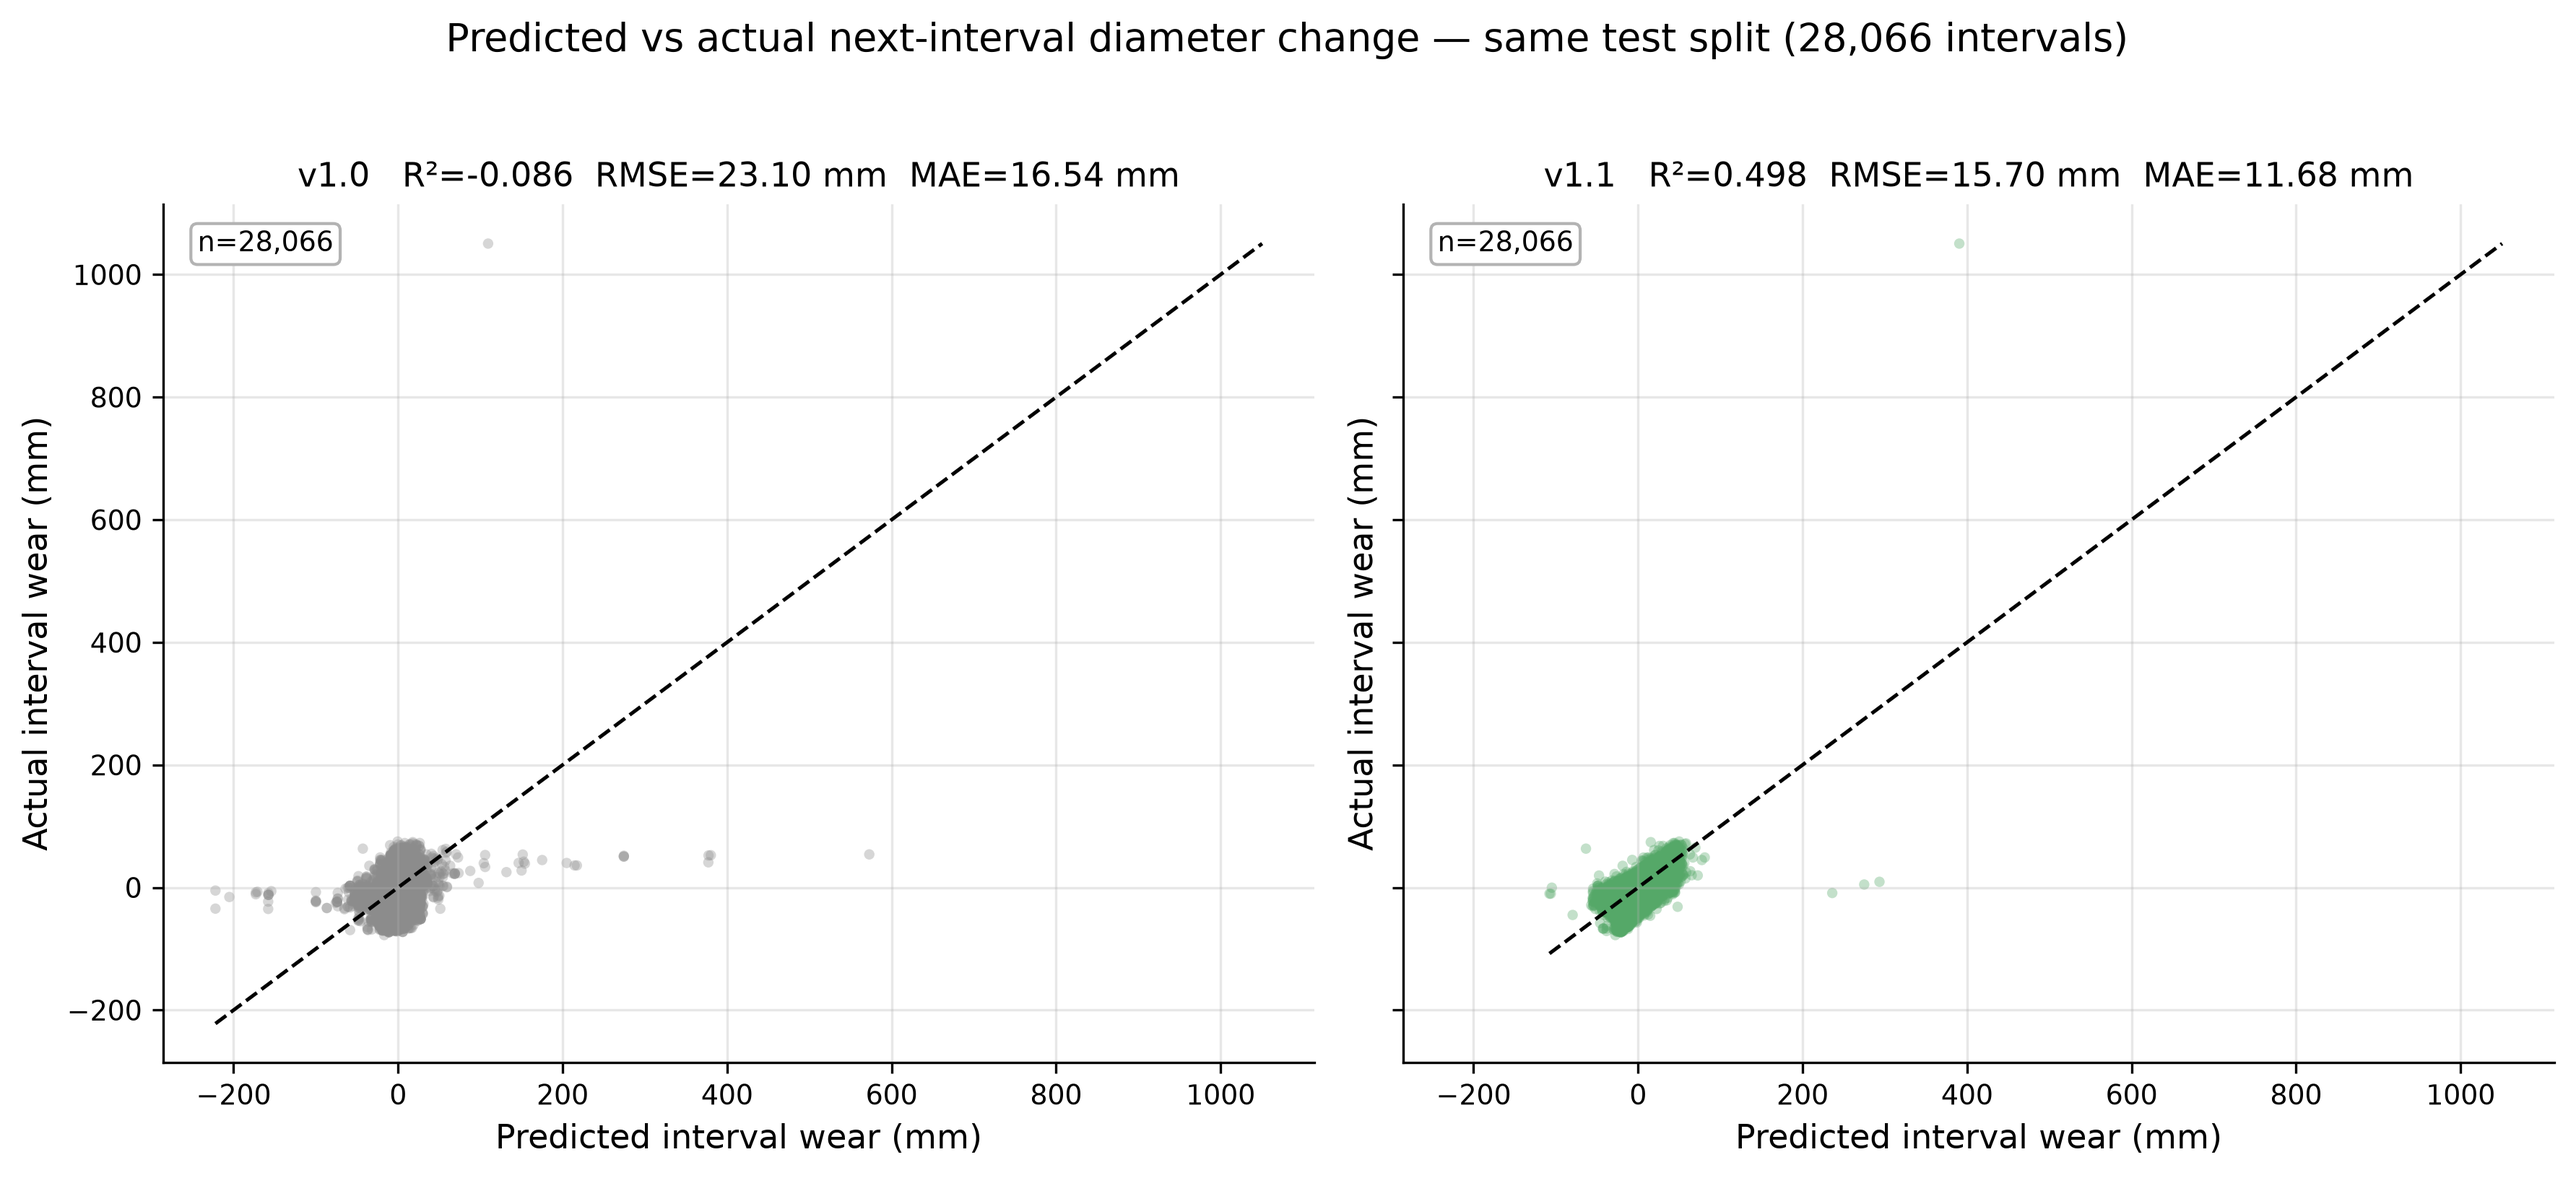
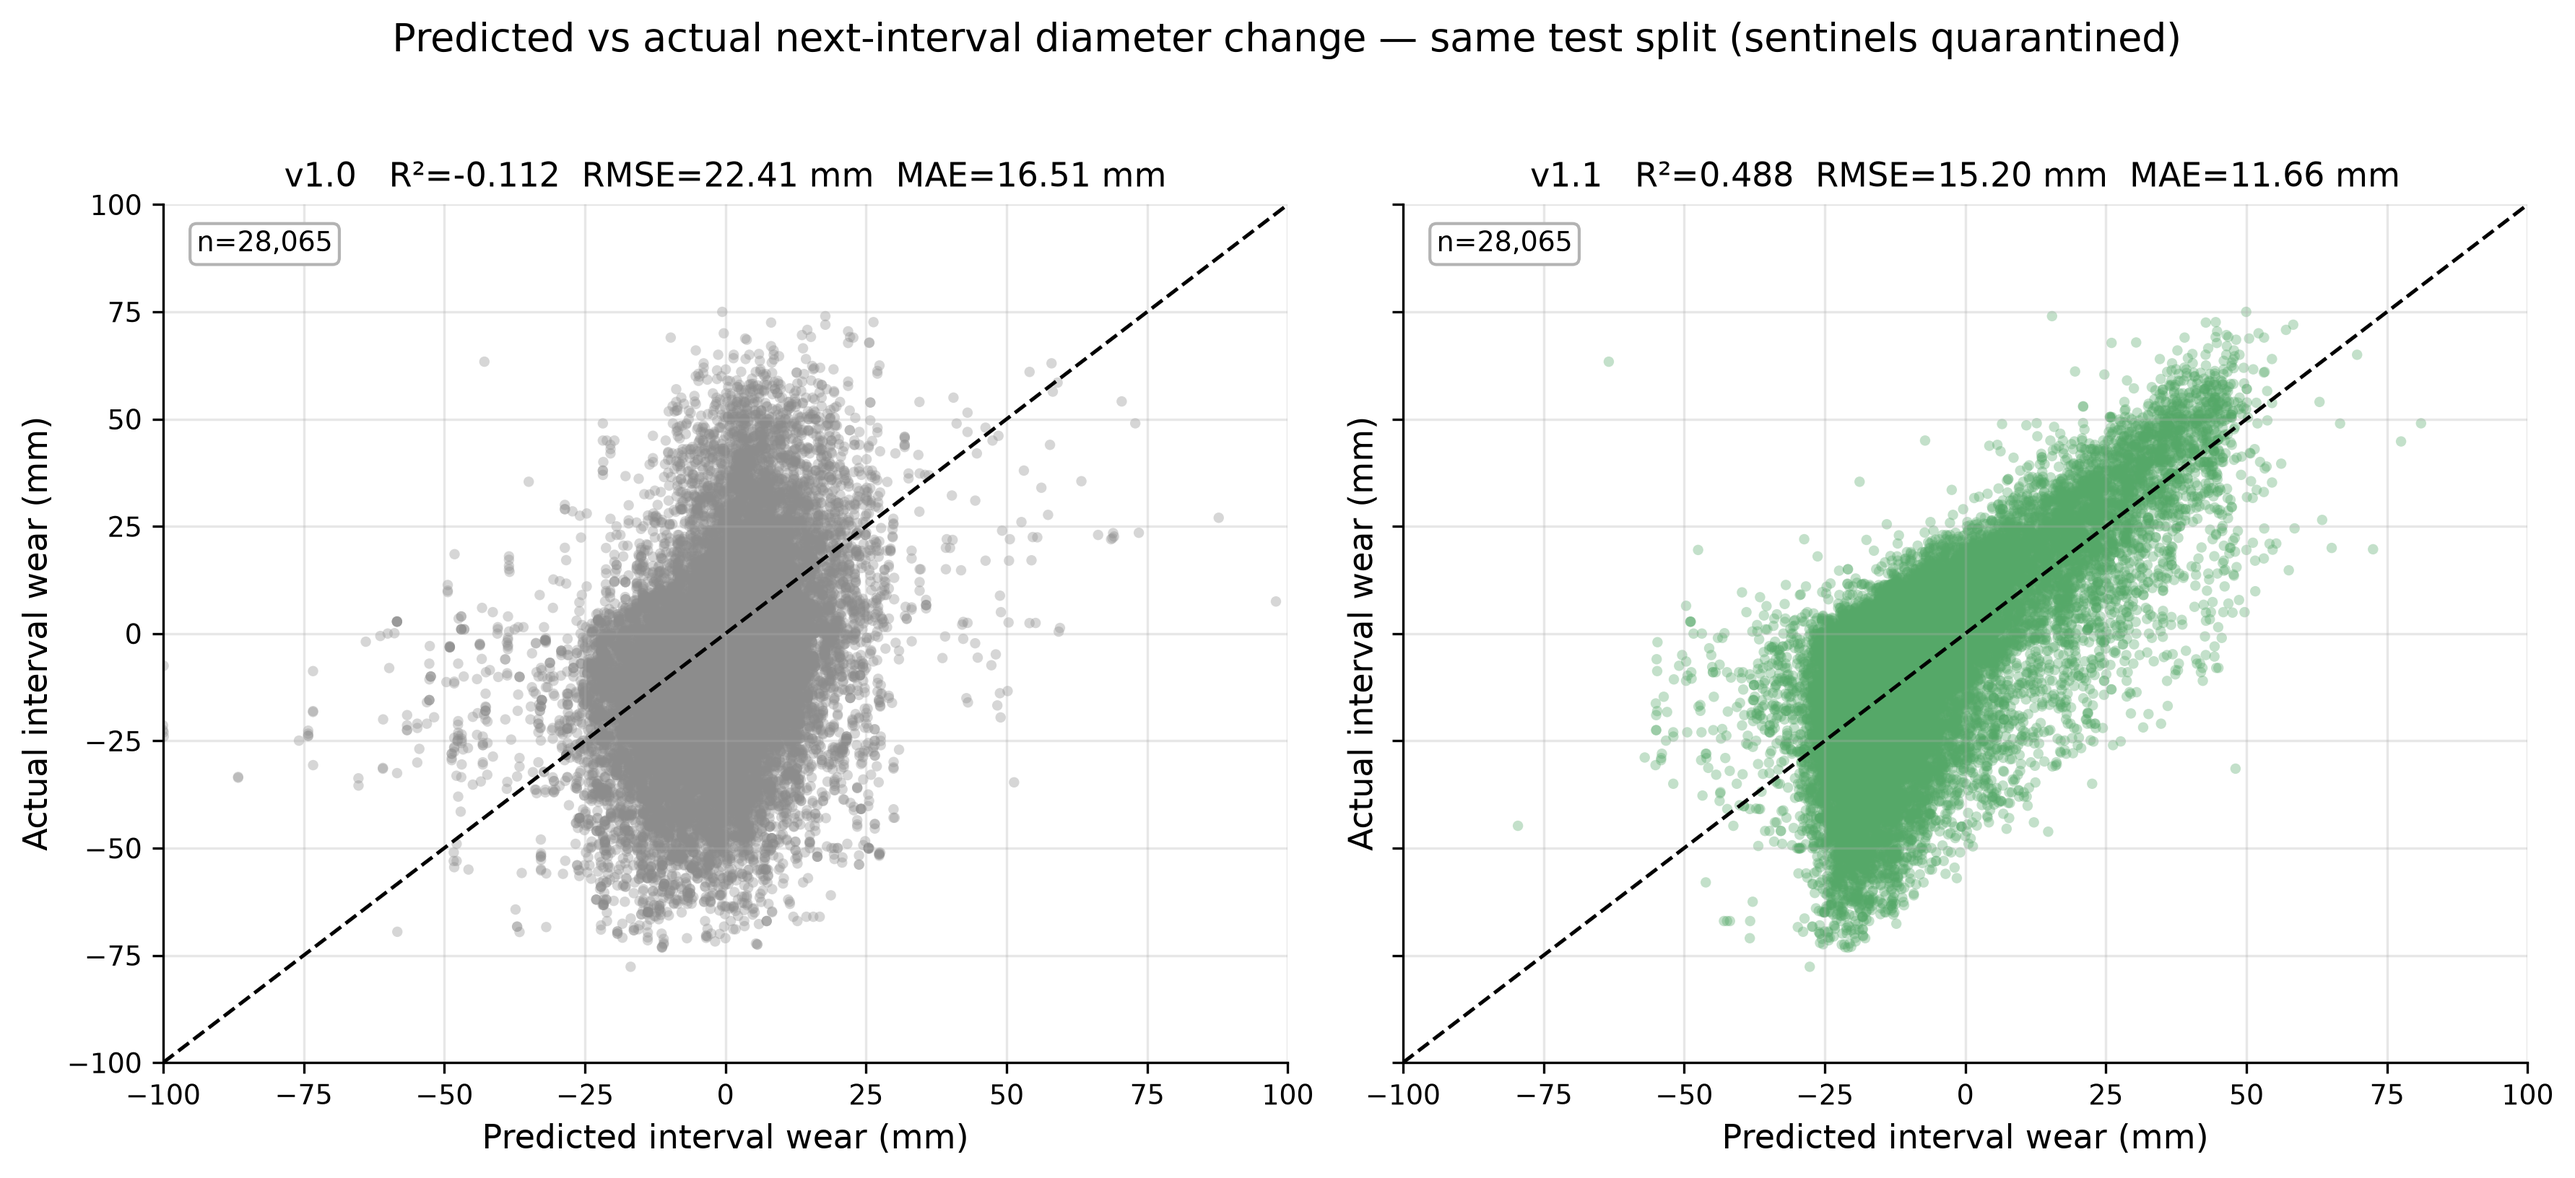
new plots

diff --git a/models/visualization_suite_v1_1.py b/models/visualization_suite_v1_1.py
@@ -15,7 +15,9 @@ notebooks/graphs.py):
 Output: models/experiments/v1.1/plots/*.png (300 DPI) + plots_summary.md
 
 Figures:
-  01 predicted vs actual scatter (side-by-side, delta scale, R2/RMSE/MAE annotated)
+  00 ECDF headline (management hero figure)
+  01 predicted vs actual scatter (main, sentinels quarantined, ±100 mm axis)
+  01b predicted vs actual scatter (appendix, all points, axes expanded)
   02 residual distribution (KDE + histogram overlay)
   03 residual vs actual next diameter (binned bias)
   04 residual vs current measured diameter geom_wsmDia1 (binned bias + MAE)
@@ -25,6 +27,7 @@ Figures:
   08 cumulative error ECDF (fraction within +/-5/10/20 mm)
   09 permutation importance (color-coded by feature family)
   10 ablation (RMSE + PR-AUC)
+  11 current diameter vs predicted wear, colored by prediction error
 """
 from __future__ import annotations
 
@@ -50,6 +53,10 @@ OUT_DIR = EXPERIMENTS_V1_1 / "plots"
 
 LABEL = "next_interval_dia_delta_mm"
 RANDOM_STATE = 42
+
+# Sentinel labels retained in Label Spec v1.0 (impossible wheel-wear magnitudes).
+# |y_true| above this is a documented outlier, not a physically meaningful interval.
+SENTINEL_MAX_ABS = 100.0
 
 # Consistent palette (matches notebooks/graphs.py VERSION_COLORS)
 C_V1_0 = "#8C8C8C"
@@ -115,6 +122,7 @@ def load_test_comparison() -> pd.DataFrame:
     df["residual11"] = df["y_true"] - df["y_pred11"]
     df["abs_residual10"] = df["residual10"].abs()
     df["abs_residual11"] = df["residual11"].abs()
+    df["is_sentinel"] = df["y_true"].abs() > SENTINEL_MAX_ABS
     return df.reset_index(drop=True)
 
 
@@ -141,27 +149,100 @@ def _save(fig, name: str) -> Path:
     return out
 
 
+def _scatter_panel(ax, df, col_pred, color, limits=None, sentinels_quarantined=False):
+    x = df[col_pred]
+    y = df["y_true"]
+    ax.scatter(x, y, s=12, alpha=0.35, color=color, edgecolors="none")
+    lo = min(x.min(), y.min())
+    hi = max(x.max(), y.max())
+    ax.plot([lo, hi], [lo, hi], color="black", linestyle="--", linewidth=1.2, zorder=5)
+    if limits is not None:
+        ax.set_xlim(limits)
+        ax.set_ylim(limits)
+    return lo, hi
+
+
+def fig00_ecdf_headline(df: pd.DataFrame) -> Path:
+    """Management hero figure: ECDF of |error| with the ±20 mm story annotated."""
+    thresholds = np.array([0, 1, 2, 3, 5, 10, 15, 20, 30, 40, 60, 100])
+    fig, ax = plt.subplots(figsize=(10, 6))
+    for col, color, tag in [("abs_residual10", C_V1_0, "v1.0"), ("abs_residual11", C_V1_1, "v1.1")]:
+        r = df[col].dropna()
+        fracs = np.array([(r <= t).mean() for t in thresholds])
+        ax.plot(thresholds, fracs, marker="o", markersize=5, color=color, linewidth=2.2,
+                label=tag)
+
+    for t in [5, 10, 20]:
+        f10 = (df["abs_residual10"] <= t).mean() * 100
+        f11 = (df["abs_residual11"] <= t).mean() * 100
+        ax.axvline(t, color="0.55", linestyle=":", linewidth=1)
+        ax.plot([t], [f11 / 100], marker="o", markersize=7, color=C_V1_1, zorder=6)
+        ax.annotate(f"±{t} mm\n{f10:.0f}% → {f11:.0f}%", xy=(t, f11 / 100),
+                    xytext=(t + 1, f11 / 100 - 0.13), fontsize=10, color="0.15",
+                    arrowprops=dict(arrowstyle="-", color="0.4", lw=0.8))
+
+    # Highlight the ±20 mm band that carries the headline.
+    f20_10 = (df["abs_residual10"] <= 20).mean() * 100
+    f20_11 = (df["abs_residual11"] <= 20).mean() * 100
+    ax.axvspan(0, 20, color=C_V1_1, alpha=0.06, zorder=0)
+    ax.text(0.02, 0.94, f"**84%** of v1.1 predictions within ±20 mm\nvs **69%** for v1.0",
+            transform=ax.transAxes, fontsize=13, va="top", color="#1B5E20",
+            bbox=dict(boxstyle="round,pad=0.5", fc="#E8F5E9", ec=C_V1_1, lw=1.2))
+
+    ax.set_xlim(0, 100)
+    ax.set_ylim(0, 1.0)
+    ax.set_xlabel("Absolute prediction error  |actual − predicted|  (mm)")
+    ax.set_ylabel("Fraction of test intervals within threshold")
+    ax.set_title("Fraction of predictions within an error budget — v1.1 covers the fleet earlier", fontsize=13)
+    ax.legend(title="model", loc="lower right", fontsize=11)
+    ax.grid(True, alpha=0.3)
+    fig.tight_layout()
+    return _save(fig, "00_ecdf_headline.png")
+
+
 def fig01_scatter(df: pd.DataFrame) -> Path:
-    """Predicted vs actual interval wear, side-by-side, y=x + R2/RMSE/MAE."""
+    """Predicted vs actual interval wear, main (sentinels quarantined) + appendix (all)."""
+    main = df[~df["is_sentinel"]].copy()
+    n_sent = int(df["is_sentinel"].sum())
+
+    # ---- Figure A: main figure, ±100 mm axis, no sentinels ----
     fig, axes = plt.subplots(1, 2, figsize=(12, 5.5), sharex=True, sharey=True)
     for ax, (tag, col_pred, color) in zip(
         axes, [("v1.0", "y_pred10", C_V1_0), ("v1.1", "y_pred11", C_V1_1)]
     ):
-        x = df[col_pred]
-        y = df["y_true"]
+        x = main[col_pred]
+        y = main["y_true"]
         ax.scatter(x, y, s=12, alpha=0.35, color=color, edgecolors="none")
-        lo = min(x.min(), y.min())
-        hi = max(x.max(), y.max())
-        ax.plot([lo, hi], [lo, hi], color="black", linestyle="--", linewidth=1.2, zorder=5)
+        ax.plot([-100, 100], [-100, 100], color="black", linestyle="--", linewidth=1.2, zorder=5)
         m = metrics(y, x)
         ax.set_title(f"{tag}   R²={m['r2']:.3f}  RMSE={m['rmse']:.2f} mm  MAE={m['mae']:.2f} mm", fontsize=11)
         ax.set_xlabel("Predicted interval wear (mm)")
         ax.set_ylabel("Actual interval wear (mm)")
+        ax.set_xlim(-100, 100)
+        ax.set_ylim(-100, 100)
         ax.text(0.03, 0.97, f"n={len(x):,}", transform=ax.transAxes, va="top", fontsize=9,
                 bbox=dict(boxstyle="round,pad=0.25", fc="white", ec="0.7"))
-    fig.suptitle("Predicted vs actual next-interval diameter change — same test split (28,066 intervals)", fontsize=13)
+    fig.suptitle("Predicted vs actual next-interval diameter change — same test split (sentinels quarantined)", fontsize=13)
     fig.tight_layout(rect=(0, 0, 1, 0.95))
-    return _save(fig, "01_predicted_vs_actual_scatter.png")
+    p_main = _save(fig, "01_predicted_vs_actual_scatter.png")
+
+    # ---- Figure B: appendix, all points, axes expanded ----
+    fig, axes = plt.subplots(1, 2, figsize=(12, 5.5), sharex=True, sharey=True)
+    for ax, (tag, col_pred, color) in zip(
+        axes, [("v1.0", "y_pred10", C_V1_0), ("v1.1", "y_pred11", C_V1_1)]
+    ):
+        _scatter_panel(ax, df, col_pred, color)
+        ax.set_title(tag, fontsize=11)
+        ax.set_xlabel("Predicted interval wear (mm)")
+        ax.set_ylabel("Actual interval wear (mm)")
+        ax.text(0.03, 0.97, f"n={len(df):,}", transform=ax.transAxes, va="top", fontsize=9,
+                bbox=dict(boxstyle="round,pad=0.25", fc="white", ec="0.7"))
+    fig.suptitle(
+        f"All points included — axes expanded by {n_sent} sentinel label(s) retained in Label Spec v1.0",
+        fontsize=13)
+    fig.tight_layout(rect=(0, 0, 1, 0.95))
+    p_all = _save(fig, "01b_predicted_vs_actual_scatter_all.png")
+    return p_main
 
 
 def fig02_residual_distribution(df: pd.DataFrame) -> Path:
@@ -171,7 +252,7 @@ def fig02_residual_distribution(df: pd.DataFrame) -> Path:
     for ax, (tag, col, color) in zip(
         axes, [("v1.0", "residual10", C_V1_0), ("v1.1", "residual11", C_V1_1)]
     ):
-        r = df[col].dropna()
+        r = df.loc[~df["is_sentinel"], col].dropna()
         ax.hist(r, bins=80, density=True, alpha=0.55, color=color, edgecolor="white", linewidth=0.3)
         try:
             kde = stats.gaussian_kde(r)
@@ -463,6 +544,38 @@ def fig10_ablation() -> Path:
     return _save(fig, "10_ablation.png")
 
 
+def fig11_current_diameter_vs_wear(df: pd.DataFrame) -> Path:
+    """Current measured diameter vs predicted wear, points colored by |error|.
+
+    The story: v1.0 never saw the wheel's current geometry, so its predicted wear is
+    flat and uncorrelated with wear state. v1.1 knows geom_wsmDia1, so predicted wear
+    tracks the physical relationship — and errors shrink (lighter colors).
+    """
+    q = df[~df["is_sentinel"]].dropna(subset=["geom_wsmDia1"]).copy()
+    # Shared error scale so both panels are directly comparable (cap at p99).
+    err_max = float(np.percentile(np.concatenate([q["abs_residual10"], q["abs_residual11"]]), 99))
+    norm = plt.Normalize(vmin=0, vmax=err_max)
+    cmap = plt.get_cmap("viridis")
+
+    fig, axes = plt.subplots(1, 2, figsize=(13, 5.6), sharey=True)
+    for ax, (tag, col_pred, col_err) in zip(
+        axes, [("v1.0", "y_pred10", "abs_residual10"), ("v1.1", "y_pred11", "abs_residual11")]
+    ):
+        sc = ax.scatter(q["geom_wsmDia1"], q[col_pred], s=9, c=q[col_err], cmap=cmap,
+                        norm=norm, alpha=0.6, edgecolors="none")
+        m = metrics(q["y_true"], q[col_pred])
+        ax.set_title(f"{tag}   MAE={m['mae']:.2f} mm", fontsize=11)
+        ax.set_xlabel("Current measured diameter geom_wsmDia1 (mm)")
+        ax.set_ylabel("Predicted next-interval wear (mm)")
+        ax.text(0.03, 0.05, f"n={len(q):,}", transform=ax.transAxes, fontsize=9,
+                bbox=dict(boxstyle="round,pad=0.25", fc="white", ec="0.7"))
+    fig.colorbar(sc, ax=axes, label="|prediction error| (mm)")
+    fig.suptitle(
+        "Once the model sees the current diameter, predicted wear becomes physically consistent",
+        fontsize=13)
+    return _save(fig, "11_current_diameter_vs_predicted_wear.png")
+
+
 # ---------------------------------------------------------------------------
 # Main
 # ---------------------------------------------------------------------------
@@ -470,11 +583,17 @@ def main() -> None:
     df = load_test_comparison()
     m10 = metrics(df["y_true"], df["y_pred10"])
     m11 = metrics(df["y_true"], df["y_pred11"])
-    print(f"test rows: {len(df)}")
+    q = df[~df["is_sentinel"]]
+    mq10 = metrics(q["y_true"], q["y_pred10"])
+    mq11 = metrics(q["y_true"], q["y_pred11"])
+    print(f"test rows: {len(df)}  (sentinels quarantined: {int(df['is_sentinel'].sum())})")
     print(f"v1.0: RMSE={m10['rmse']:.3f}  MAE={m10['mae']:.3f}  R2={m10['r2']:.4f}  Spearman={m10['spearman']:.4f}")
     print(f"v1.1: RMSE={m11['rmse']:.3f}  MAE={m11['mae']:.3f}  R2={m11['r2']:.4f}  Spearman={m11['spearman']:.4f}")
+    print(f"v1.0 (no sentinels): RMSE={mq10['rmse']:.3f}  MAE={mq10['mae']:.3f}")
+    print(f"v1.1 (no sentinels): RMSE={mq11['rmse']:.3f}  MAE={mq11['mae']:.3f}")
 
     paths = [
+        fig00_ecdf_headline(df),
         fig01_scatter(df),
         fig02_residual_distribution(df),
         fig03_residual_vs_actual(df),
@@ -485,6 +604,7 @@ def main() -> None:
         fig08_cumulative_error(df),
         fig09_permutation_importance(),
         fig10_ablation(),
+        fig11_current_diameter_vs_wear(df),
     ]
     for p in paths:
         print(f"Saved: {p}")

diff --git a/models/experiments/v1.1/plots/plots_summary.md b/models/experiments/v1.1/plots/plots_summary.md
@@ -26,15 +26,26 @@ v1.1 dataset with the identical grouped-temporal split:
 
 ## Figure-by-figure guide
 
-### 01_predicted_vs_actual_scatter.png — **technical review**
-Predicted vs actual next-interval diameter change on the delta scale, side-by-side, with the
-y=x line and R²/RMSE/MAE annotated. The v1.1 cloud is visibly tighter around y=x. The
-scatter uses the **delta** (change) axis because the raw diameter is dominated by wheelset
-level — on a raw-diameter axis both models hug y=x and hide the improvement.
+### 00_ecdf_headline.png — **executive (hero figure)**
+The one-slide plot. ECDF of absolute error: at any error budget, v1.1 covers more of the
+fleet. The headline is annotated directly on the chart — **84% of v1.1 predictions fall
+within ±20 mm vs 69% for v1.0** (and ±10 mm: 52.5% vs 41.6%). Use this first, everywhere.
+
+### 01_predicted_vs_actual_scatter.png — **technical review (main)**
+Predicted vs actual next-interval diameter change, side-by-side, y=x line, R²/RMSE/MAE
+annotated. **Sentinels quarantined** (|label| > 100 mm) and axes fixed at ±100 mm so the
+cloud tightening is visible. The v1.1 cloud is visibly tighter around y=x.
+
+### 01b_predicted_vs_actual_scatter_all.png — **appendix**
+Same scatter with **all** points, axes expanded. Title states the sentinel count retained
+in Label Spec v1.0 (1 row in this test split) so the appendix is transparent without
+letting one bad label hide the real behavior. The scatter uses the **delta** (change) axis
+because raw diameter is dominated by wheelset level — on raw diameter both models hug y=x.
 
 ### 02_residual_distribution.png — **technical review**
-Histogram + KDE of residuals. v1.1's distribution is narrower (σ lower) and more peaked at 0;
-both are centered near zero (no bias shift), the win is variance reduction, not re-centering.
+Histogram + KDE of residuals (sentinels excluded). v1.1's distribution is narrower (σ lower)
+and more peaked at 0; both are centered near zero — the win is variance reduction, not
+re-centering.
 
 ### 03_residual_vs_actual_diameter.png — **technical review**
 Binned mean residual vs the actual next diameter. v1.0 shows systematic under/over-prediction
@@ -70,10 +81,9 @@ Horizontal bar of MAE change by home shed (28 sheds, n≥50). Every shed improve
 worst v1.0 shed (PADX, −55%) leaves the worst-100 entirely. One slide line: "every depot
 got better, the weakest improved the most."
 
-### 08_cumulative_error_ecdf.png — **executive**
-ECDF of |error|. At any error budget, v1.1 covers a larger fraction of the fleet — e.g.
-±20 mm covers 84% of intervals vs 69% for v1.0. Good for "what does this mean for
-maintenance planning" conversations.
+### 08_cumulative_error_ecdf.png — **executive (technical companion to 00)**
+ECDF of |error| with ±5/±10/±20 mm threshold markers. More thresholds than the hero
+figure, for review contexts; 00 is the cleaned-up presentation version.
 
 ### 09_permutation_importance.png — **technical review**
 Permutation importance (test, HGB v1.1), color-coded: physics (green), measured geometry
@@ -84,6 +94,14 @@ the answer to "why did it improve" in one chart.
 Ablation (v1.0 / +geom / +phys / +all) for regression RMSE and large-loss PR-AUC.
 `+geom` alone delivers nearly the full gain (RMSE 23.10 → 15.65; PR-AUC 0.845 → 0.928);
 `+phys` alone is smaller; `+all` ≈ `+geom` (overlap ~1.0). Justifies the v1.1 feature set.
+
+### 11_current_diameter_vs_predicted_wear.png — **executive + technical**
+The engineering story in one figure. x = current measured diameter `geom_wsmDia1`,
+y = predicted next-interval wear, points colored by |prediction error| (shared scale).
+v1.0's predictions are a flat, error-dense band — it never saw the wheel's current
+geometry. v1.1's predictions *track the wear state* (lower error, physically consistent
+gradient). Caption: "Once the model knows the current diameter, prediction becomes
+physically consistent."
 
 ---
 
